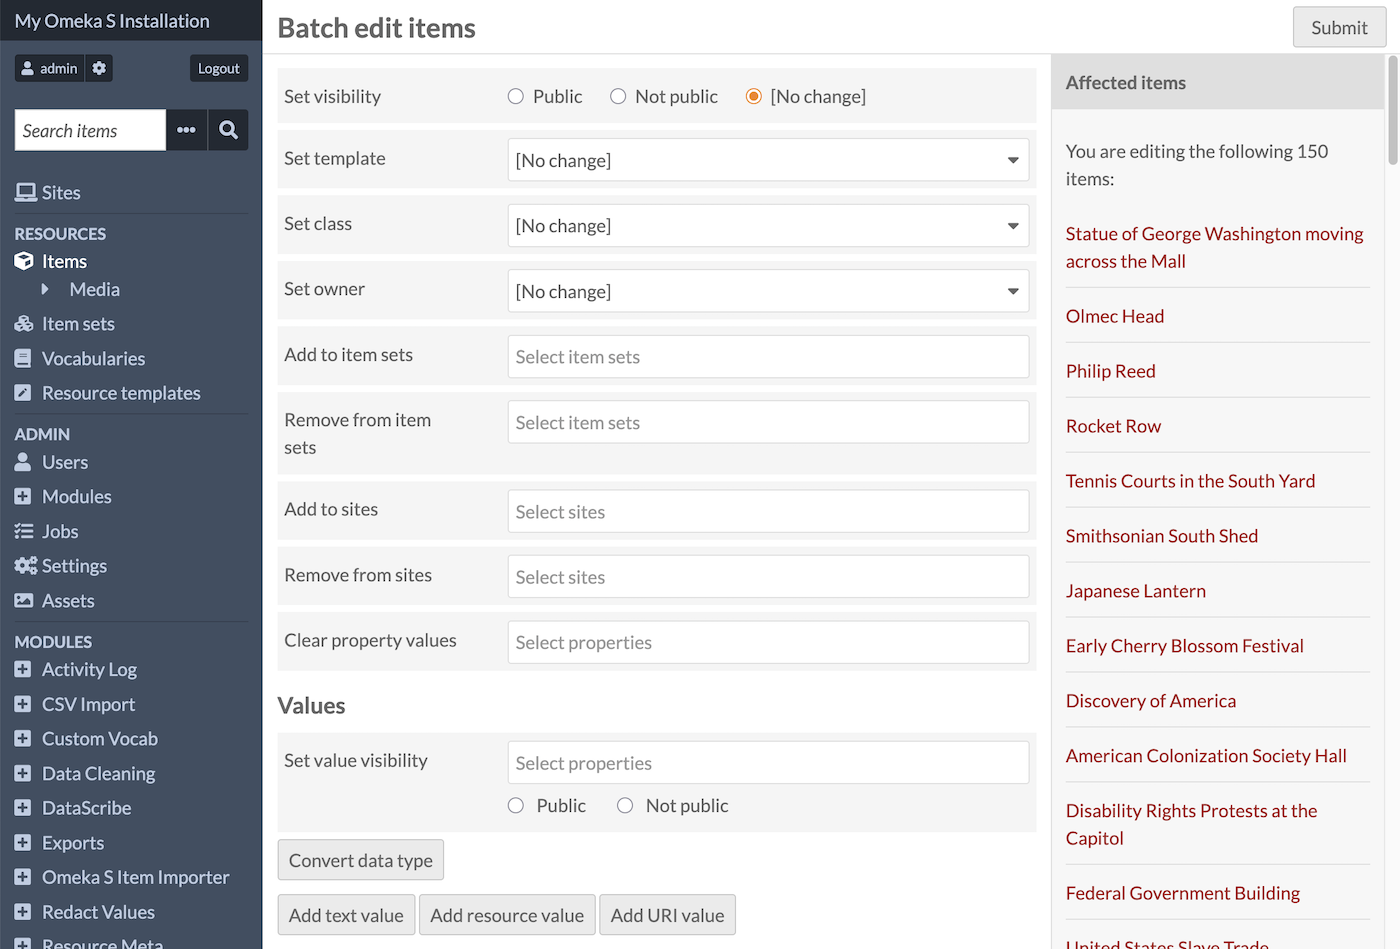
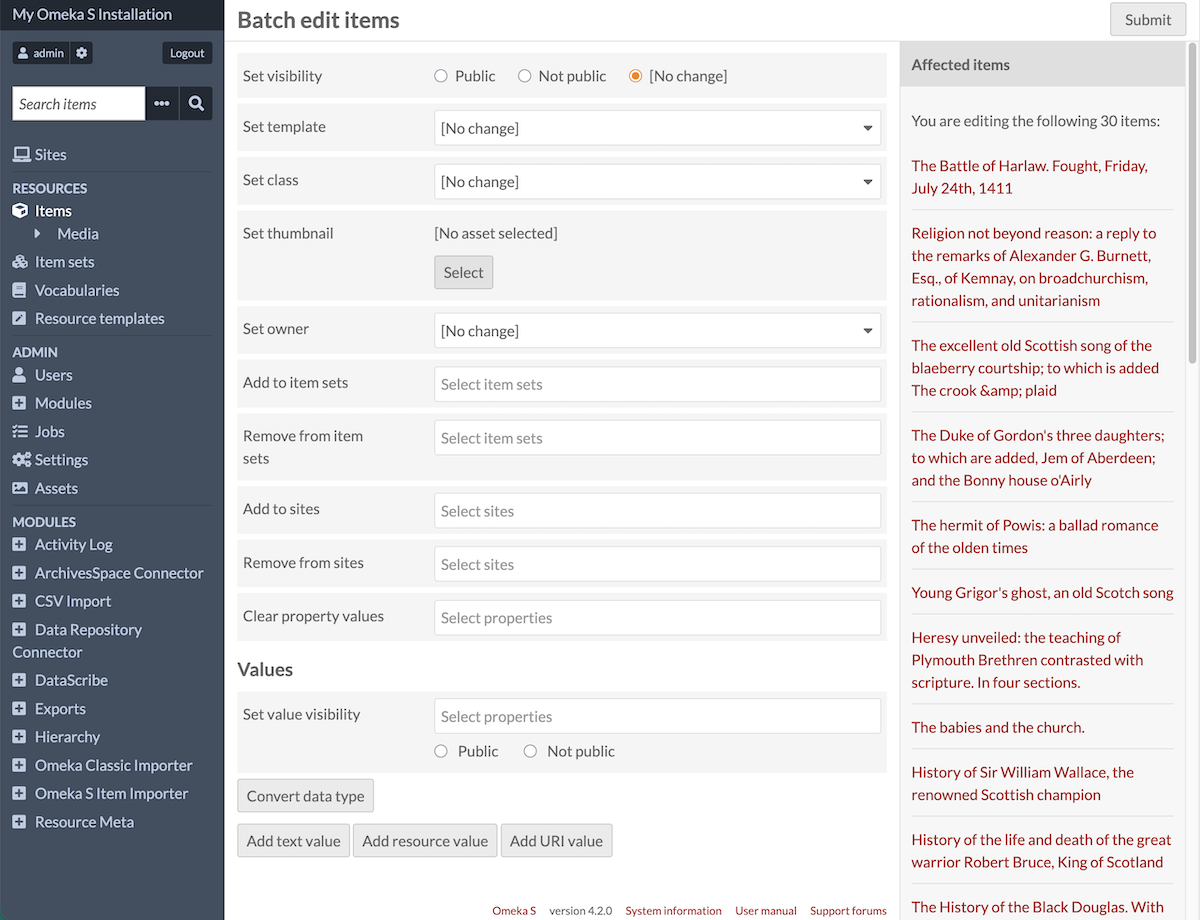
4.2.1 updates

diff --git a/docs/content/item-sets.md b/docs/content/item-sets.md
@@ -235,14 +235,15 @@ If you complete a batch action from the next screen, you will return back to thi
 
 ### Batch editing
 
-**Batch editing** item sets takes you to a new page. The item sets being edited will display on the right side in a drawer. Be sure to confirm the number of item sets being edited looks correct.
+**Batch editing** item sets takes you to a new page. The item sets being edited are displayed in a column on the right. Be sure to confirm the number of item sets being edited looks correct.
 
-The batch edit form gives you the following options:  
+The batch-edit form gives you the following options:  
 
 - **Set visibility**: a radio button. Select from public or not public to make the item set visible or not visible to logged-out users.
 - **Set openness**: a radio button. Select from open or not open. Open sets can be edited and added to by any user on the install; closed sets are available and editable only by its creator, site admins, and global admins.
 - **Set template**: a dropdown. Select from the installation's resource templates. You can remove templates from the selected item sets with the "[Unset template]" option. A search bar appears at the top of the dropdown menu if you would like to type to search.
 - **Set class**: a dropdown. Select from classes of the installed vocabularies. You can remove all classes from the selected item sets with the "[Unset class]" option. A search bar appears at the top of the dropdown menu if you would like to type to search.
+- **Set thumbnail**: Click the "Select" button to open up the Assets sidebar, where you can choose an existing asset or upload a new one, to be the thumbnail for all included item sets. This will replace any automatically-chosen thumbnails from items, and any thumbnails chosen manually when editing individual item sets. 
 - **Set owner**: a dropdown. Select from users of the installation to choose who should be set as the owner of the selected item sets. Ownership determines [who can edit and delete those item sets](#item-set-permissions), outside the higher [user permission levels](../admin/users.md#roles-and-permissions).
 - **Clear property values**: a dropdown and text field, with all the properties in all vocabularies. Selecting from this will remove any values in that property in the affected item sets. You can remove multiple property values at once: click in the text field again to see the remaining options. 
 - **Set value visibility**: a dropdown and text field, with radio buttons. Set the visibility of a specific property or properties to either public or not public. Unlike the radio buttons at the top of the form, this will only affect one or more metadata fields, instead of the entire item set (for example, you may wish to hide the "Creator" value on some public item sets). Select a property from the text field (type to begin searching), and the choose either the "Public" or "Not public" radio button for this option. You can add multiple properties by clicking again within the text field, but they will all become either "Public" or "Not public".

diff --git a/docs/content/items.md b/docs/content/items.md
@@ -376,13 +376,14 @@ If you complete a batch action from the next screen, you will return back to thi
 
 ### Batch editing
 
-**Batch editing** items takes you to a new page. The items being edited will display on the right side in a drawer. Be sure to confirm the number of items being edited looks correct.
+**Batch editing** items takes you to a new page. The items being edited will display in a column on the right. Be sure to confirm the number of items being edited looks correct.
 
-The batch edit form gives you the following options:  
+The batch-edit form gives you the following options:  
 
 - **Set visibility**: a radio button. Select from public or not public to make the item visible or not visible to logged-out users.
 - **Set template**: a dropdown. Select from the installation's resource templates. You can remove templates from the selected items with the "[Unset template]" option. A search bar appears at the top of the dropdown menu if you would like to type to search.
 - **Set class**: a dropdown. Select from classes of the installed vocabularies. You can remove all classes from the selected items with the "[Unset class]" option. A search bar appears at the top of the dropdown menu if you would like to type to search.
+- **Set thumbnail**: Click the "Select" button to open up the Assets sidebar, where you can choose an existing asset or upload a new one, to be the thumbnail for all included items. This will replace any automatically-generated thumbnails from media, and any thumbnails chosen manually when editing individual items. 
 - **Set owner**: a dropdown. Select from users of the installation to choose who should be set as the owner of the selected items. Ownership determines who can edit and delete those items, outside the higher [user permission levels](../admin/users.md#roles-and-permissions).
 - **Add to item set**: a dropdown and text field. Select from item sets on the installation, organized by owner, or type to search. You can add the selected items to multiple item sets: click in the text field again to see the remaining options.
 - **Remove from item set**: a dropdown and text field. Select from item sets on the installation, organized by owner, or type to search. You can remove the selected items from multiple item sets: click in the text field again to see the remaining options.